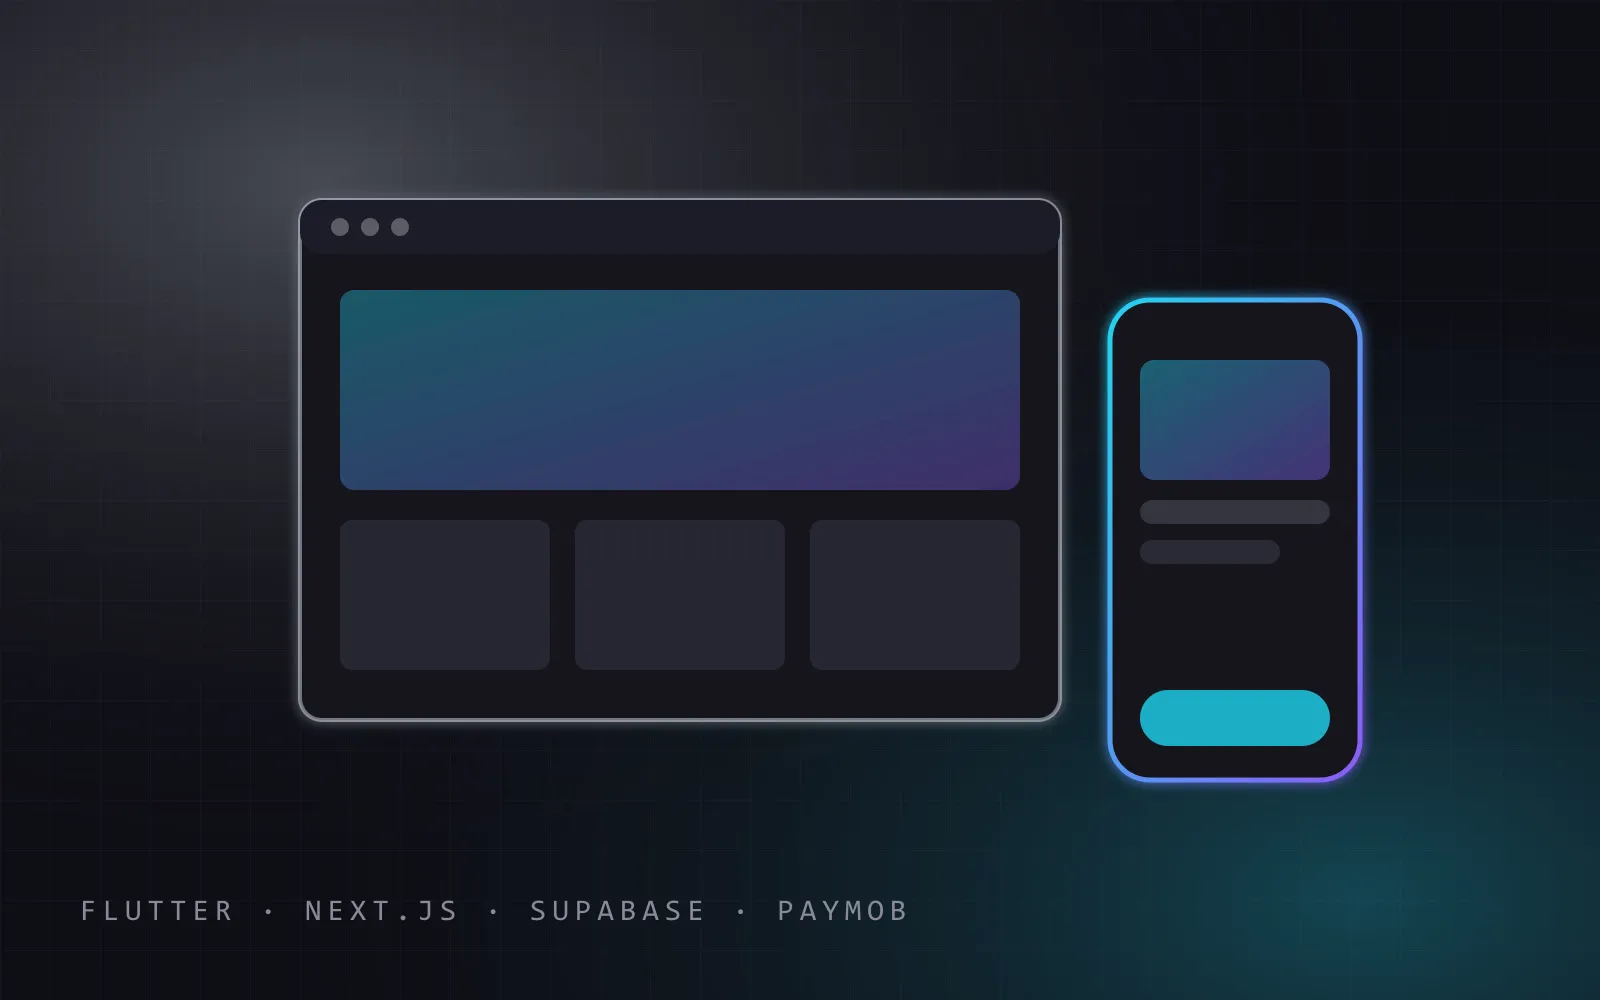
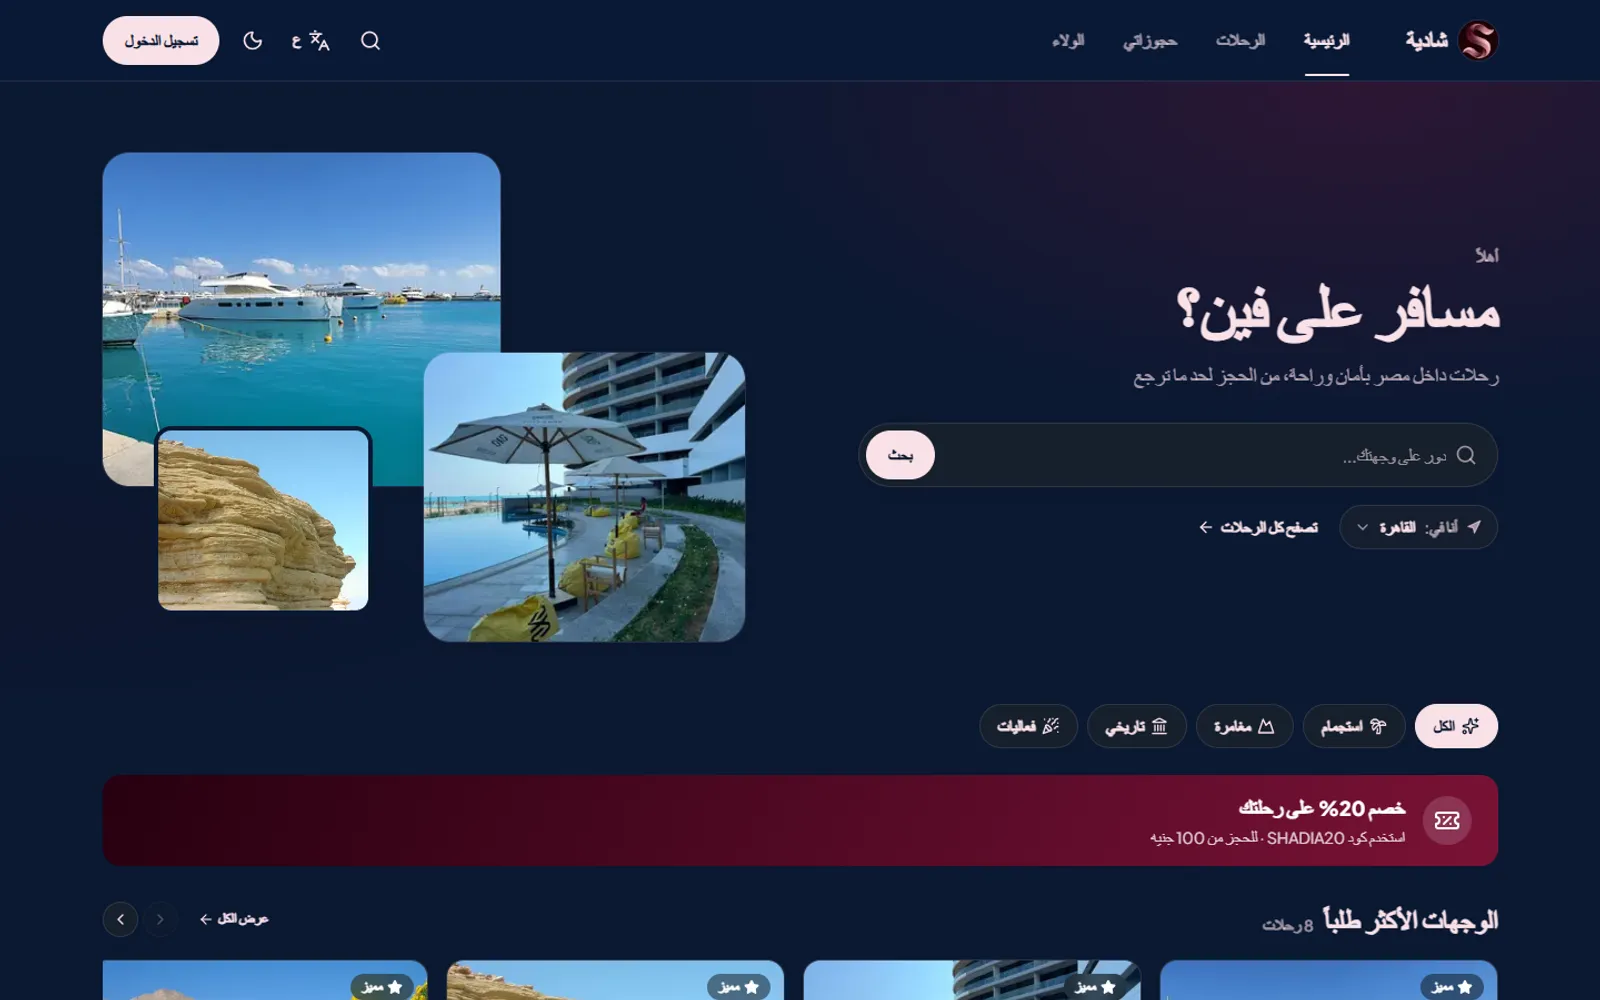
Shadia Travel: explain the app, website and staff portal; real screenshots (#19)
* Shadia Travel: explain the app, website and staff portal; real screenshots

- Rewritten from the ShadiaApp repo and the live website and app: the three applications
  and the shared Supabase backend each get their own section.
- Online payment is described as built but switched off until the gateway contract is active.
- Cover and gallery are real screenshots of the website and the app. The website is the live
  link; the admin portal is not linked.

* Shadia Travel: add staff portal screenshots to the gallery

Four screens from Mohamed's own signed-in session: the trip catalog, one trip, and two
analytics views. Screens with personal data are left out, and an internal configuration
warning banner is cut out of the two dashboard screens. The portal is still not linked.

---------

diff --git a/PLAN.md b/PLAN.md
@@ -406,6 +406,27 @@ separate project in a private repo; this phase is the recording side, in this re
   page, CV, email and outbound clicks, a phone inside the LinkedIn app, opt-out, the limits, and
   rejected posts. Home initial JS 199.0 KB gzip; Lighthouse 90–93 / 100 / 100 / 100.
 
+### Shadia Travel in detail (2026-11-11)
+
+- Rewritten from the private ShadiaApp repo (READMEs, docs, admin portal source, migrations) and
+  the live website and app. It now explains the three parts separately: the Flutter app, the
+  customer website and the staff portal (trips, bookings, tour companies and edit requests,
+  loyalty and partner redemption, 27 staff permissions, the analytics area and its AI analyst),
+  plus the shared Supabase backend.
+- Corrected a claim: online payment through Paymob is built and tested but switched off until the
+  gateway contract is active; bookings are paid in cash or by InstaPay and confirmed by staff.
+- Real screenshots replace the illustrated cover: the website home (cover), a trip page and the
+  trip list, and three screens of the app (guest view of its web build). Live link: the website;
+  the app is linked in the text. The admin portal is not linked (Mohamed's decision).
+- Admin portal screenshots (2026-11-12): Mohamed signed in himself in a Chrome window the capture
+  script opened; the script only opened pages and saved screenshots. Four are in the gallery
+  (trip catalog, one trip, analytics screen flow, analytics demand). Screens with personal data
+  (customers, bookings, staff, partner contacts, AI insights) were left out, and an internal
+  configuration warning banner was cut out of the two dashboard screens.
+- Verified (desktop and phone): the page renders with no console errors or broken images; no link
+  to the admin portal in the built HTML. Initial home JS 199.0 KB gz. Lighthouse (mobile, busy
+  machine): home 95 / 84 / 87, Shadia page 94 / 68 / 88 / 94; A11y/BP/SEO 100. No code changed.
+
 ## Inputs needed from Mohamed (SPEC §11)
 
 - [x] 3-sentence bio + 4–6 timeline milestones (from the CVs)
